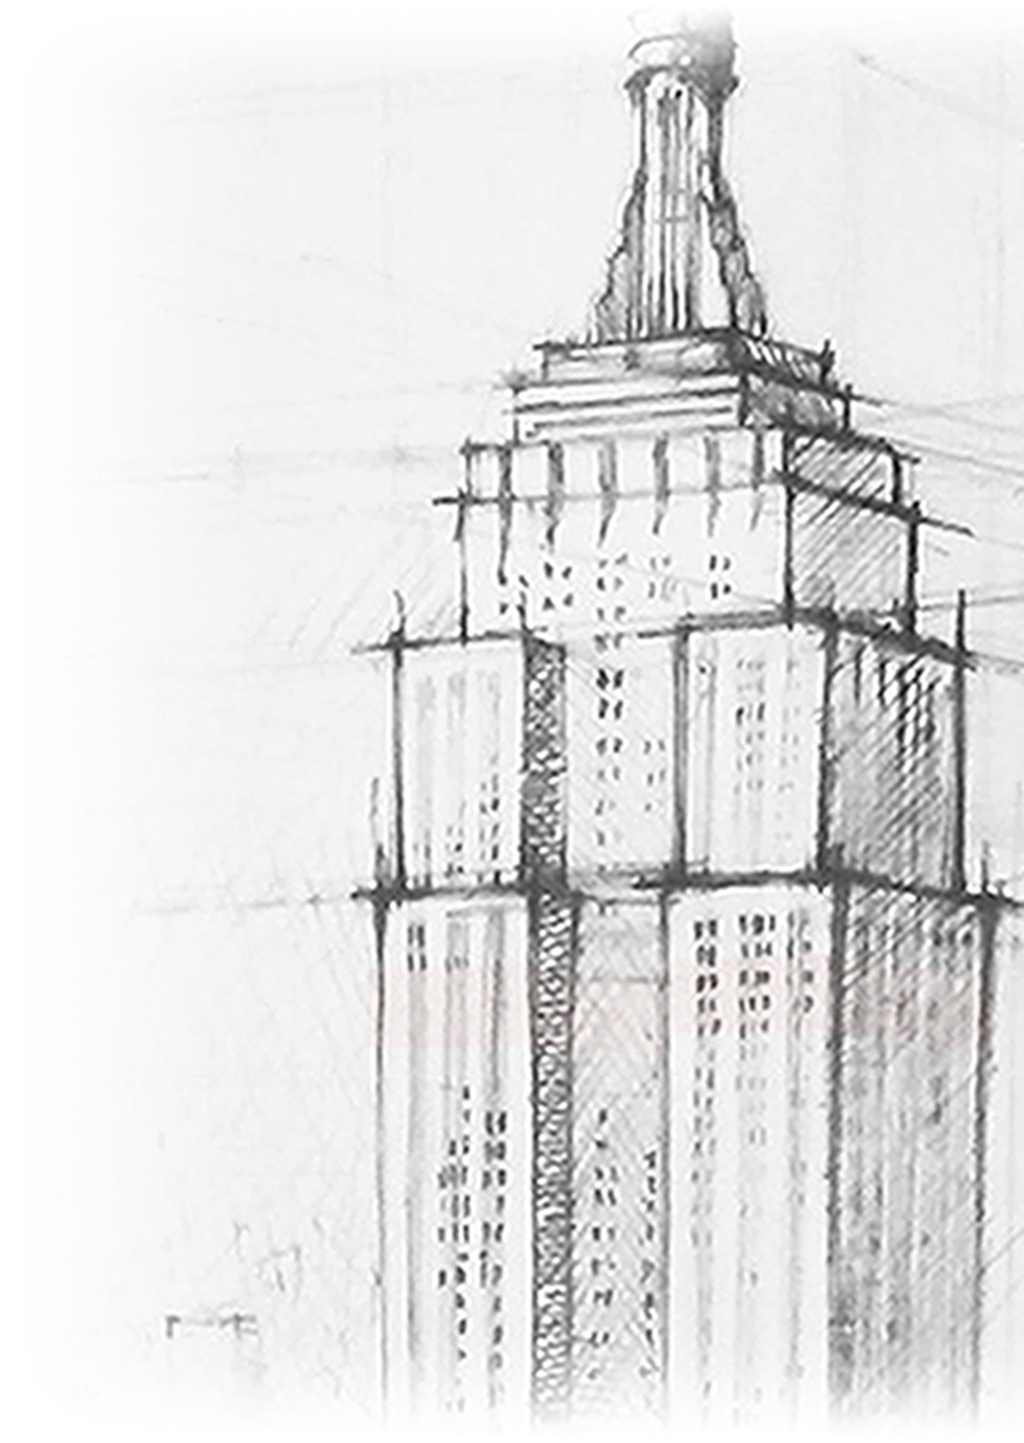
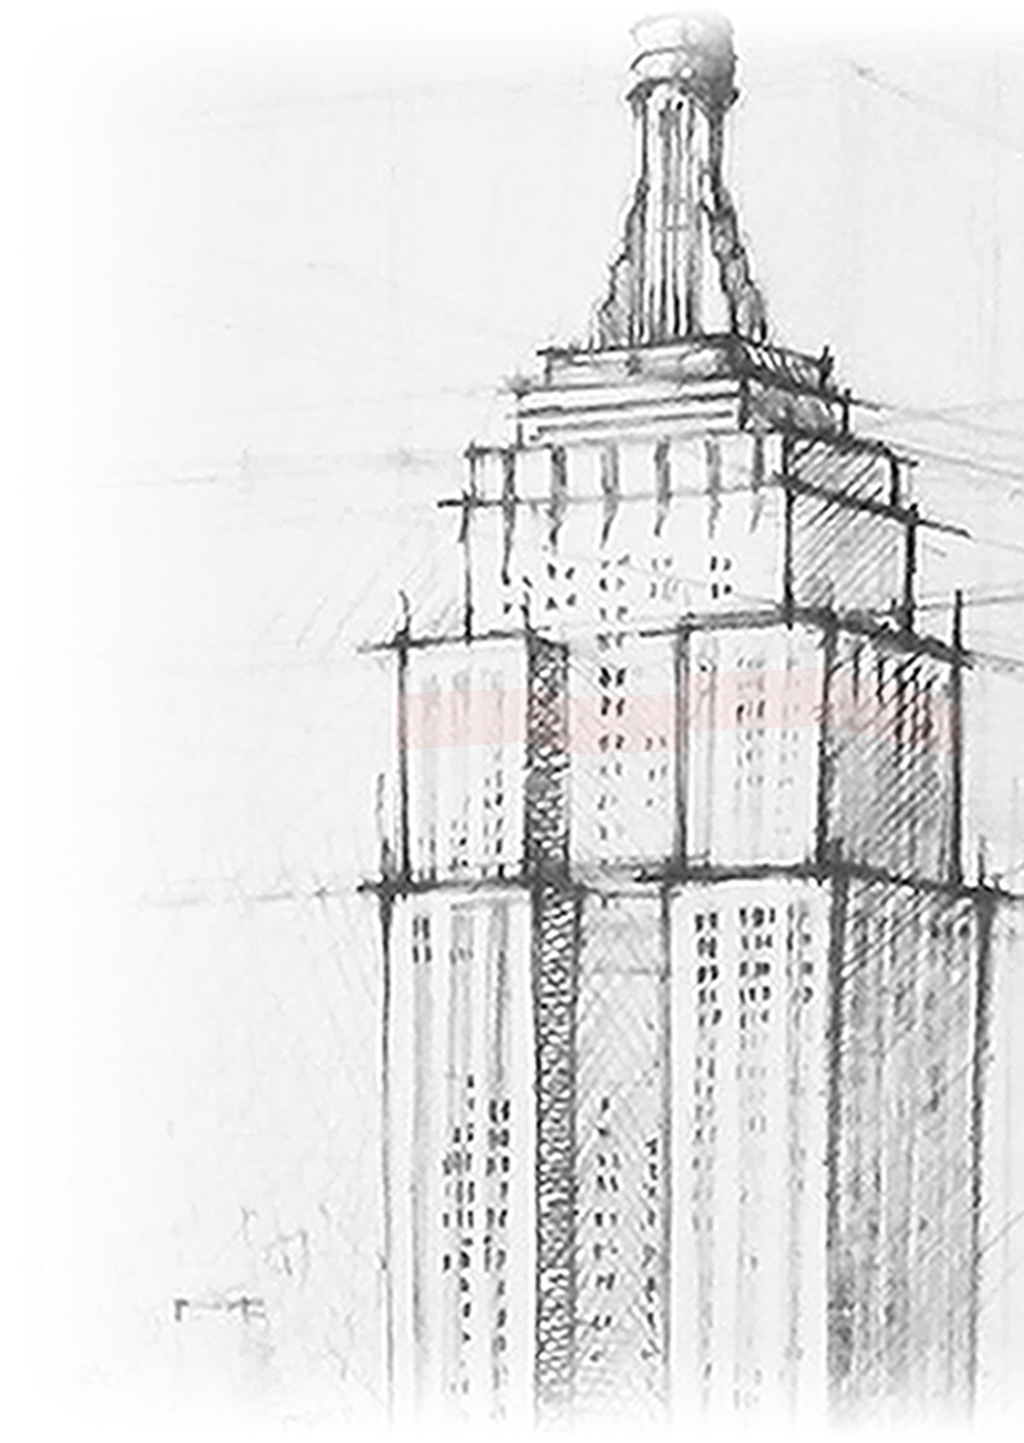
Documented code

diff --git a/index.html b/index.html
@@ -4,6 +4,7 @@
   <meta charset="utf-8">
   <title>KnoGeo Inc</title>
 
+  <!-- Styles used include google fonts (Roboto) and bootstrap 4. -->
   <link rel="stylesheet" href="assets/css/bootstrap.min.css">
   <link rel="stylesheet" href="assets/css/styles.css">
   <link href="https://fonts.googleapis.com/css?family=Roboto:100,400,500,700" rel="stylesheet">
@@ -11,9 +12,13 @@
 
 </head>
 <body>
+
+  <!-- Content on the landing page which contains text and images. ie. not the scrolling Empire State Building. -->
   <div class="intro">
     <div class="content">
       <div class="landing">
+
+        <!-- Landing content which contains the KnoGeo Logo, tag lines and CTA button to enroll in the beta. -->
         <img src="assets/lib/logo.svg" width="250px" alt="" class="logo">
         <div id="landingContent">
           <h1>The most impactful way to visualize real estate listings</h1>
@@ -22,13 +27,23 @@
             <br>
             <a href="https://docs.google.com/forms/d/e/1FAIpQLScK52T5VzrrfjDlisRN7feWXBPYXe7sAjofWS8X2CDzMg4dPw/viewform?usp=pp_url " target="_blank"><button type="button" name="button" class="btn btn-outline-primary">Request Beta Access</button></a></h5>
         </div>
+
+        <!-- Bouncing arrow animation to indicate vertical scrolling. -->
         <div class="arrow bounce">
           <i class="fas fa-chevron-down" aria-hidden="true"></i>
         </div>
       </div>
+
+      <!-- Text content below the landing content -->
       <div class="textContent">
+
+        <!-- Bootstrap jumbotron class used to emphasize content and provide visual aesthetic separating the content
+      from the background. -->
         <div class="jumbotron" id="jumboOne">
           <h2>Location, Location, Location</h2>
+
+          <!-- Horizontal line animation created using several divs (firstLoader) and animating the
+        fade in/out using CSS.-->
           <div class="wrapper">
             <div class="loader">
               <div class="firstLoader"></div>
@@ -64,6 +79,8 @@
               <i class="secondArrow loaderArrow fadeAnimation"></i>
             </div>
           </div>
+
+          <!-- Div used to implement CSS Grid into 3 columns and 1 row. -->
           <div class="benefits">
             <div class="benefitOne benefitContent">
               <i class="fas fa-user-plus"></i>
@@ -136,52 +153,30 @@
       </div>
     </div>
 
+    <!-- Content on the landing page which consists of the scrolling Empire State Building animation -->
     <div class="images">
-      <!-- <img class="animated" src="assets/lib/imgs/es0.png" alt=""> -->
       <img class="animated" src="assets/lib/imgs/es1.png" alt="">
-      <!-- <img class="animated" src="assets/lib/imgs/es2.png" alt=""> -->
       <img class="animated" src="assets/lib/imgs/es3.png" alt="">
-      <!-- <img class="animated" src="assets/lib/imgs/es4.png" alt=""> -->
       <img class="animated" src="assets/lib/imgs/es5.png" alt="">
-      <!-- <img class="animated" src="assets/lib/imgs/es6.png" alt=""> -->
       <img class="animated" src="assets/lib/imgs/es7.png" alt="">
-      <!-- <img class="animated" src="assets/lib/imgs/es8.png" alt=""> -->
       <img class="animated" src="assets/lib/imgs/es9.png" alt="">
-      <!-- <img class="animated" src="assets/lib/imgs/es10.png" alt=""> -->
       <img class="animated" src="assets/lib/imgs/es11.png" alt="">
-      <!-- <img class="animated" src="assets/lib/imgs/es12.png" alt=""> -->
       <img class="animated" src="assets/lib/imgs/es13.png" alt="">
-      <!-- <img class="animated" src="assets/lib/imgs/es14.png" alt=""> -->
       <img class="animated" src="assets/lib/imgs/es15.png" alt="">
-      <!-- <img class="animated" src="assets/lib/imgs/es16.png" alt=""> -->
       <img class="animated" src="assets/lib/imgs/es17.png" alt="">
-      <!-- <img class="animated" src="assets/lib/imgs/es18.png" alt=""> -->
       <img class="animated" src="assets/lib/imgs/es19.png" alt="">
-      <!-- <img class="animated" src="assets/lib/imgs/es20.png" alt=""> -->
       <img class="animated" src="assets/lib/imgs/es21.png" alt="">
-      <!-- <img class="animated" src="assets/lib/imgs/es22.png" alt=""> -->
       <img class="animated" src="assets/lib/imgs/es23.png" alt="">
-      <!-- <img class="animated" src="assets/lib/imgs/es24.png" alt=""> -->
       <img class="animated" src="assets/lib/imgs/es25.png" alt="">
-      <!-- <img class="animated" src="assets/lib/imgs/es26.png" alt=""> -->
 
       <!-- Fully highlighted -->
       <img class="animated" src="assets/lib/imgs/es27.png" alt="">
-      <!-- <img class="animated" src="assets/lib/imgs/es27.png" alt="">
-      <img class="animated" src="assets/lib/imgs/es27.png" alt="">
-      <img class="animated" src="assets/lib/imgs/es27.png" alt="">
-      <img class="animated" src="assets/lib/imgs/es27.png" alt=""> -->
 
-      <!-- <img class="animated" src="assets/lib/imgs/es28.png" alt=""> -->
       <img class="animated" src="assets/lib/imgs/es29.png" alt="">
-      <!-- <img class="animated" src="assets/lib/imgs/es30.png" alt=""> -->
       <img class="animated" src="assets/lib/imgs/es31.png" alt="">
       <img class="animated" src="assets/lib/imgs/es32.png" alt="">
-      <!-- <img class="animated" src="assets/lib/imgs/es33.png" alt=""> -->
       <img class="animated" src="assets/lib/imgs/es34.png" alt="">
-      <!-- <img class="animated" src="assets/lib/imgs/es35.png" alt=""> -->
       <img class="animated" src="assets/lib/imgs/es36.png" alt="">
-      <!-- <img class="animated" src="assets/lib/imgs/es37.png" alt=""> -->
       <img class="animated" src="assets/lib/imgs/es38.png" alt="">
       <img class="animated" src="assets/lib/imgs/es39.png" alt="">
       <img class="animated" src="assets/lib/imgs/es40.png" alt="">
@@ -190,18 +185,12 @@
 
       <!-- Fully highlighted -->
       <img class="animated" src="assets/lib/imgs/es43.png" alt="">
-      <!-- <img class="animated" src="assets/lib/imgs/es43.png" alt="">
-      <img class="animated" src="assets/lib/imgs/es43.png" alt="">
-      <img class="animated" src="assets/lib/imgs/es43.png" alt=""> -->
 
       <img class="animated" src="assets/lib/imgs/es44.png" alt="">
       <img class="animated" src="assets/lib/imgs/es45.png" alt="">
       <img class="animated" src="assets/lib/imgs/es46.png" alt="">
       <img class="animated" src="assets/lib/imgs/es47.png" alt="">
       <img class="animated" src="assets/lib/imgs/es48.png" alt="">
-      <!-- <img class="animated" src="assets/lib/imgs/es48.png" alt=""> -->
-      <!-- <img class="animated" src="assets/lib/imgs/es48.png" alt=""> -->
-      <!-- <img class="animated" src="assets/lib/imgs/es48.png" alt=""> -->
       <img class="animated" src="assets/lib/imgs/es48.png" alt="">
       <img class="animated" src="assets/lib/imgs/es48.png" alt="">
       <img class="animated" src="assets/lib/imgs/es48.png" alt="">
@@ -210,27 +199,13 @@
       <img class="animated" src="assets/lib/imgs/es51.png" alt="">
       <img class="animated" src="assets/lib/imgs/es52.png" alt="">
       <img class="animated" src="assets/lib/imgs/es53.png" alt="">
-
-      <!-- Fully highlighted -->
-
-      <!-- <img class="animated" src="assets/lib/imgs/es53.png" alt="">
-      <img class="animated" src="assets/lib/imgs/es53.png" alt="">
-      <img class="animated" src="assets/lib/imgs/es53.png" alt=""> -->
-
       <img class="animated" src="assets/lib/imgs/es54.png" alt="">
-      <!-- <img class="animated" src="assets/lib/imgs/es55.png" alt=""> -->
       <img class="animated" src="assets/lib/imgs/es56.png" alt="">
-      <!-- <img class="animated" src="assets/lib/imgs/es57.png" alt=""> -->
       <img class="animated" src="assets/lib/imgs/es58.png" alt="">
-      <!-- <img class="animated" src="assets/lib/imgs/es59.png" alt=""> -->
       <img class="animated" src="assets/lib/imgs/es60.png" alt="">
-      <!-- <img class="animated" src="assets/lib/imgs/es61.png" alt=""> -->
       <img class="animated" src="assets/lib/imgs/es62.png" alt="">
       <img class="animated" src="assets/lib/imgs/es63.png" alt="">
       <img class="animated" src="assets/lib/imgs/es64.png" alt="">
-      <!-- <img class="animated" src="assets/lib/imgs/es64.png" alt=""> -->
-      <!-- <img class="animated" src="assets/lib/imgs/es64.png" alt=""> -->
-      <!-- <img class="animated" src="assets/lib/imgs/es64.png" alt=""> -->
       <img class="animated" src="assets/lib/imgs/es64.png" alt="">
       <img class="animated" src="assets/lib/imgs/es65.png" alt="">
       <img class="animated" src="assets/lib/imgs/es66.png" alt="">
@@ -239,9 +214,6 @@
 
       <!-- Fully highlighted -->
       <img class="animated"  src="assets/lib/imgs/es69.png" alt="">
-      <!-- <img class="animated" src="assets/lib/imgs/es69.png" alt="">
-      <img class="animated" src="assets/lib/imgs/es69.png" alt="">
-      <img class="animated" src="assets/lib/imgs/es69.png" alt=""> -->
 
       <img class="animated" src="assets/lib/imgs/es70.png" alt="">
       <img class="animated" src="assets/lib/imgs/es71.png" alt="">
@@ -258,7 +230,7 @@
     </div>
   </div>
 
-
+  <!-- Demonstration of KnoGeo's Hylyte technology. mp4 formatted video autoplaying in a loop, with muted audio. -->
   <div class="video">
     <h1>Demonstration</h1>
     <hr>
@@ -268,6 +240,8 @@
       </video>
     </div>
 
+<!-- Pricing section of the website used to highlight feautures and cost per listing. Currently inactive.
+Remove comment syntax to activate. -->
     <!-- <div class="pricing">
       <h1>Pricing</h1>
       <hr>
@@ -296,6 +270,8 @@
       </div>
     </div> -->
 
+    <!-- "Timeline" style used to display the text heavy portion of the website. History/About KnoGeo
+  content is separated into paragraphs. -->
     <div class="technical">
       <h1>About KnoGeo</h1>
       <hr>
@@ -325,6 +301,7 @@
       </div>
     </div>
 
+    <!-- CSS Grid imlemented again into 2 columns and 1 row for text about the team at KnoGeo.  -->
     <div class="team">
       <h1>The Team Behind KnoGeo</h1>
       <hr>
@@ -375,10 +352,7 @@
       </div>
     </div>
 
-
-
-
-
+    <!-- Libraries used are jQuery, scrollreveal.js, fontawesome, and bootstrap 4. -->
     <script src="https://code.jquery.com/jquery-3.3.1.min.js" integrity="sha256-FgpCb/KJQlLNfOu91ta32o/NMZxltwRo8QtmkMRdAu8=" crossorigin="anonymous"></script>
     <script type="text/javascript" src="assets/js/scrollreveal.min.js"></script>
     <script defer src="https://use.fontawesome.com/releases/v5.0.10/js/all.js" integrity="sha384-slN8GvtUJGnv6ca26v8EzVaR9DC58QEwsIk9q1QXdCU8Yu8ck/tL/5szYlBbqmS+" crossorigin="anonymous"></script>

diff --git a/assets/css/styles.css b/assets/css/styles.css
@@ -48,11 +48,6 @@
     padding-top: 5%;
   }
 
-  video{
-    width: 100%;
-    height: auto;
-  }
-
   .footer p, .footer a{
     font-size: 0.9em;
   }
@@ -143,10 +138,6 @@
     font-size: 1.25em;
   }
 
-  video{
-    width: auto;
-    height: 85vw;
-  }
 }
 
 body{
@@ -613,4 +604,6 @@ i{
 video{
   display: block;
   margin: 0 auto;
+  width: 100%;
+  height: auto;
 }
